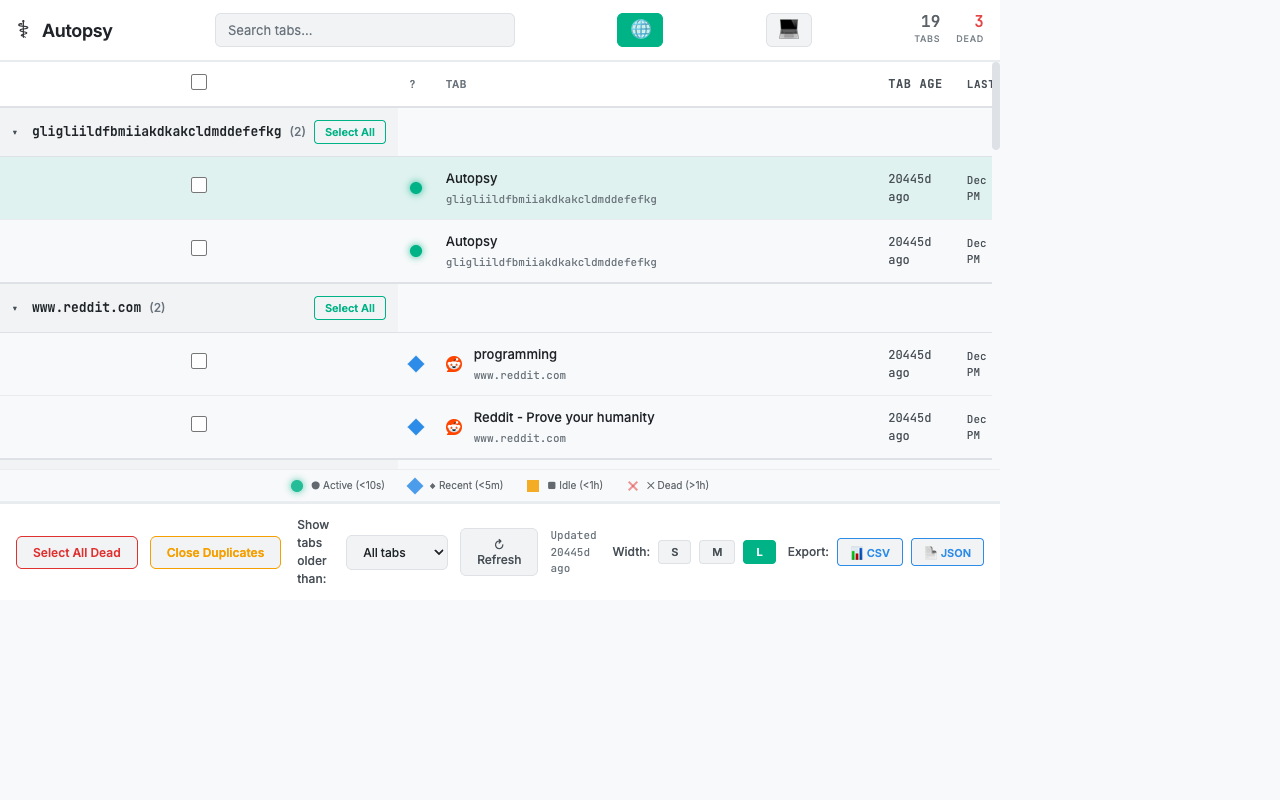
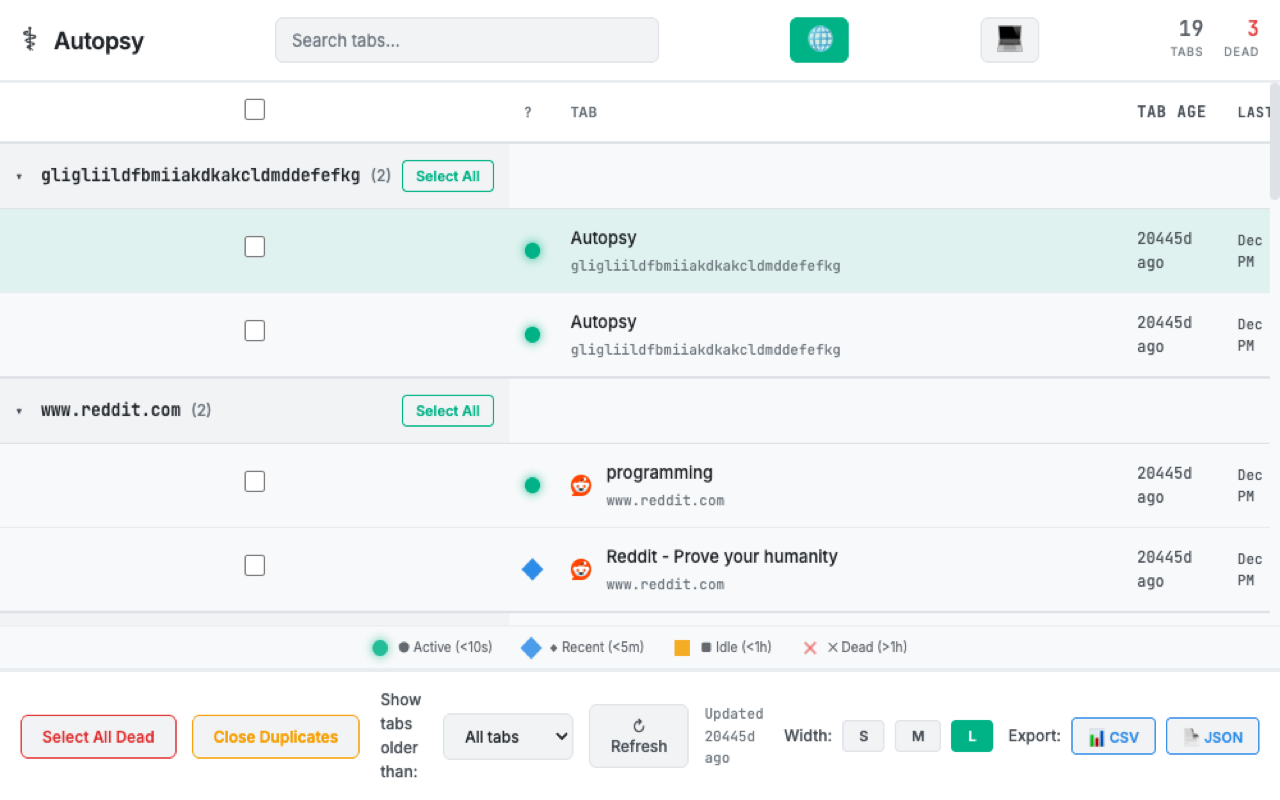
fix: Update screenshots to remove white space and fix dimensions
Screenshot improvements:
- Capture only the .app element (no white space around popup)
- All screenshots now 1280×800 (Chrome Web Store requirement)
- Fixed screenshot 04 that was 1463×800 (upload failed)

Changes:
- Updated capture-screenshots.js to use element.screenshot()
- Resized all screenshots to exactly 1280×800
- Verified icon128.png exists and is correct (128×128)

Ready for Chrome Web Store upload.

diff --git a/scripts/capture-screenshots.js b/scripts/capture-screenshots.js
@@ -150,11 +150,18 @@ async function main() {
     console.log('   ⚠ Could not sort by age, continuing...');
   }
 
-  await popup1.setViewportSize({ width: 1280, height: 800 });
-  await popup1.screenshot({
-    path: join(screenshotsPath, '01-main-interface.png'),
-    fullPage: true
-  });
+  // Capture just the app element (removes white space)
+  const appElement = await popup1.$('.app');
+  if (appElement) {
+    await appElement.screenshot({
+      path: join(screenshotsPath, '01-main-interface.png')
+    });
+  } else {
+    await popup1.screenshot({
+      path: join(screenshotsPath, '01-main-interface.png'),
+      fullPage: true
+    });
+  }
   console.log('   ✓ Saved: 01-main-interface.png');
 
   // Screenshot 2: Group by Domain
@@ -182,11 +189,18 @@ async function main() {
     console.log('   ⚠ Could not activate grouping, continuing...');
   }
 
-  await popup2.setViewportSize({ width: 1280, height: 800 });
-  await popup2.screenshot({
-    path: join(screenshotsPath, '02-group-by-domain.png'),
-    fullPage: true
-  });
+  // Capture just the app element
+  const appElement2 = await popup2.$('.app');
+  if (appElement2) {
+    await appElement2.screenshot({
+      path: join(screenshotsPath, '02-group-by-domain.png')
+    });
+  } else {
+    await popup2.screenshot({
+      path: join(screenshotsPath, '02-group-by-domain.png'),
+      fullPage: true
+    });
+  }
   console.log('   ✓ Saved: 02-group-by-domain.png');
 
   // Screenshot 3: Group by Status
@@ -218,11 +232,18 @@ async function main() {
     console.log('   ⚠ Could not cycle grouping, continuing...');
   }
 
-  await popup3.setViewportSize({ width: 1280, height: 800 });
-  await popup3.screenshot({
-    path: join(screenshotsPath, '03-group-by-status.png'),
-    fullPage: true
-  });
+  // Capture just the app element
+  const appElement3 = await popup3.$('.app');
+  if (appElement3) {
+    await appElement3.screenshot({
+      path: join(screenshotsPath, '03-group-by-status.png')
+    });
+  } else {
+    await popup3.screenshot({
+      path: join(screenshotsPath, '03-group-by-status.png'),
+      fullPage: true
+    });
+  }
   console.log('   ✓ Saved: 03-group-by-status.png');
 
   // Screenshot 4: Bulk Operations (with selections)
@@ -251,11 +272,18 @@ async function main() {
     console.log('   ⚠ Could not select tabs, continuing...');
   }
 
-  await popup4.setViewportSize({ width: 1280, height: 800 });
-  await popup4.screenshot({
-    path: join(screenshotsPath, '04-bulk-operations.png'),
-    fullPage: true
-  });
+  // Capture just the app element
+  const appElement4 = await popup4.$('.app');
+  if (appElement4) {
+    await appElement4.screenshot({
+      path: join(screenshotsPath, '04-bulk-operations.png')
+    });
+  } else {
+    await popup4.screenshot({
+      path: join(screenshotsPath, '04-bulk-operations.png'),
+      fullPage: true
+    });
+  }
   console.log('   ✓ Saved: 04-bulk-operations.png');
 
   // Screenshot 5: Light Theme
@@ -285,11 +313,18 @@ async function main() {
     console.log('   ⚠ Could not change theme, continuing...');
   }
 
-  await popup5.setViewportSize({ width: 1280, height: 800 });
-  await popup5.screenshot({
-    path: join(screenshotsPath, '05-light-theme.png'),
-    fullPage: true
-  });
+  // Capture just the app element
+  const appElement5 = await popup5.$('.app');
+  if (appElement5) {
+    await appElement5.screenshot({
+      path: join(screenshotsPath, '05-light-theme.png')
+    });
+  } else {
+    await popup5.screenshot({
+      path: join(screenshotsPath, '05-light-theme.png'),
+      fullPage: true
+    });
+  }
   console.log('   ✓ Saved: 05-light-theme.png');
 
   console.log('\n✅ All screenshots captured successfully!');
